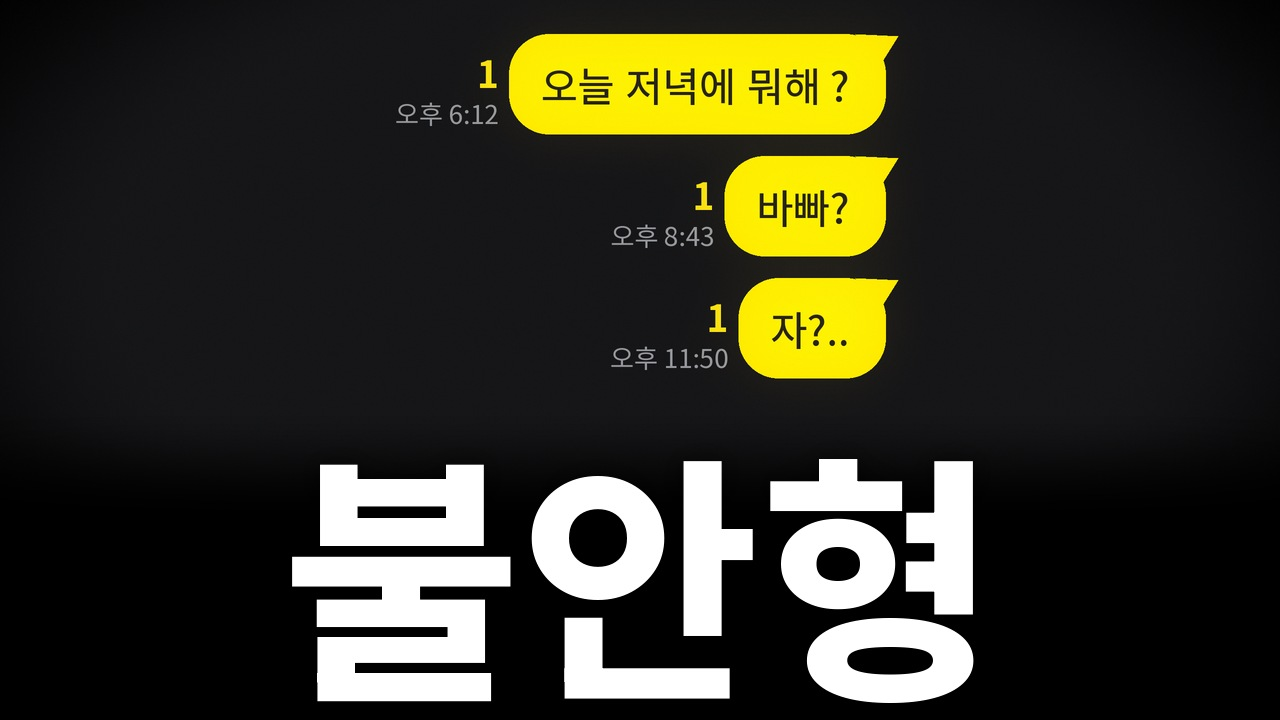
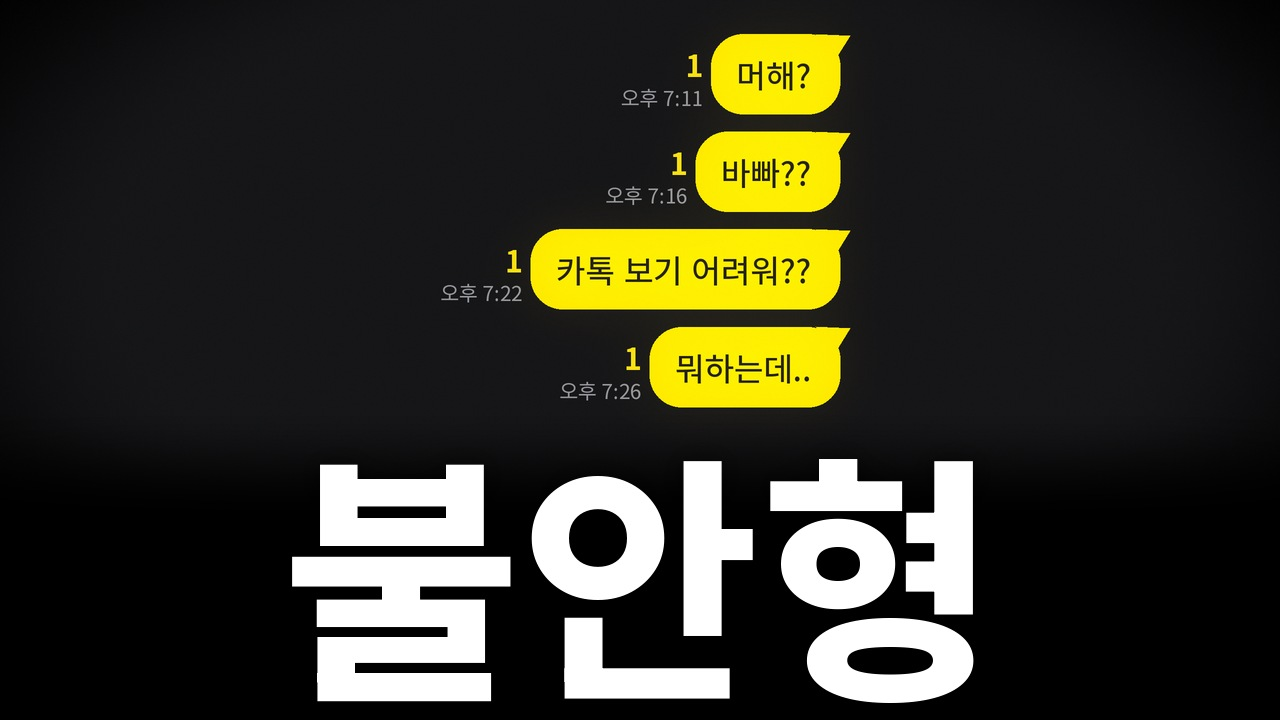
F의연애: 01편 썸네일 카톡을 4개로 (오후 7:11~7:26, 말풍선 높이 80px)
사용자 지시로 "머해?", "바빠??", "카톡 보기 어려워??", "뭐하는데.."를 보낸 문구 그대로 넣었다.
시각은 오전·오후가 적혀 있지 않아 저녁으로 보고 '오후'를 붙였다. 4개면 높이 100px 묶음이
글자와 겹쳐서 80px로 줄였다(묶음 y=34~406, 글자와 53px). thumb_chat.py에 --bubble을 더함
(옵션 없이 만들면 이전과 같은 파일). 메시지 3개 판은 초안/. 문서와 진행 기록(32) 갱신.

Claude-Session: https://claude.ai/code/session_01WkQmszpvh1Fi7ZmneSJvcx

Changed region(s): [[0.3125, 0.0306, 0.7188, 0.5806]]

diff --git a/F의연애/썸네일/thumb_chat.py b/F의연애/썸네일/thumb_chat.py
@@ -6,8 +6,9 @@
 # 말풍선은 기울이지 않고 똑바로 둔다. 아래에 주제 단어(thumb.py와 같은 글꼴·위치, 기본 흰색).
 #
 # usage: thumb_chat.py OUT.jpg [--theme dark|light] [--word 불안] [--color white|red]   (기본: dark, white)
-#                              [--msgs "a|b|c"] [--times "오후 6:12|오후 8:43|오후 11:50"] [--size 262]
+#                              [--msgs "a|b|c"] [--times "오후 6:12|오후 8:43|오후 11:50"] [--size 262] [--bubble 100]
 #   --size : 주제 단어 글자 크기(px, 기본 262). 01편 '불안형'은 259(2026-10-26 사용자: "3p만 줄이자").
+#   --bubble: 말풍선 높이(px, 기본 100). 메시지가 4개면 묶음이 글자와 50px 이상 떨어지도록 80(2026-10-26 01편).
 #   --times: 메시지마다 보낸 시각. 분이 다르면 카톡은 말풍선마다 꼬리를 새로 달고, 왼쪽에 '1'과 시간을 위아래로 둔다.
 #   light: 카톡 기본 테마(하늘색 배경) 화면 조각을 검은 배경 위에 둔다
 #   dark : 카톡 다크 테마처럼 검은 화면에 노란 말풍선만
@@ -133,7 +134,7 @@ if __name__ == "__main__":
         times = [None] * (len(msgs) - 1) + [opt("--time", "")]
     else:                                    # 01편: 저녁 6:12, 8:43, 밤 11:50에 하나씩 보냄(2026-10-22 사용자 지정)
         times = ["오후 6:12", "오후 8:43", "오후 11:50"]
-    img = (make_light if opt("--theme", "dark") == "light" else make_dark)(msgs, times)   # 기본 다크(2026-10-22 사용자 결정)
+    img = (make_light if opt("--theme", "dark") == "light" else make_dark)(msgs, times, int(opt("--bubble", 100)))   # 기본 다크(2026-10-22 사용자 결정)
     img = bottom_fade(img, 405, 520)
     put_word(img, opt("--word", "불안"), opt("--color", "white"), int(opt("--size", WORD_SIZE))).save(a[0], quality=93)
     print(a[0])

diff --git a/F의연애/CLAUDE.md b/F의연애/CLAUDE.md
@@ -1,7 +1,7 @@
 # 핸드오프 — 채널 1 「F의 연애」
 
 작성: 2026-10-20 (claude.ai 대화 내용을 정리)
-최종 수정: 2026-10-26 (사용자 지시로 01편 썸네일의 주제 단어를 '불안'에서 '불안형'으로, 카톡 메시지를 새 문구로, 글자 크기를 262px에서 259px로 바꾸고 다음 할 일 1번의 썸네일 줄을 갱신. 2026-10-25에는 사용자의 v7 수정 목록(1~12번)으로 01편 영상 v7을 만들고 파일 목록(영상/), 작업 규칙 15번, 영상 제작 5번(다시 보낸 사진, 사진 속 휴대폰 글자)·6번(녹음에서 줄을 뺄 때), 다음 할 일 1번을 갱신. 같은 날 앞서 1장 응답 규칙 11번(경과 보고를 대화창에 남기지 않음)을 더함. 같은 날 사용자가 새로 녹음한 1~8번으로 01편 영상 v6를 만들고 파일 목록(영상/), 영상 제작 6번(새 녹음을 받을 때), 다음 할 일 1번을 갱신. 같은 날 앞서 사용자의 v5 요청(새로 만든 AI 사진 29장)으로 01편 영상 v5를 만들고 파일 목록(영상/), 영상 제작 5번(새 사진 묶음), 다음 할 일 1번을 갱신. 같은 날 앞서 사용자의 v4 수정 목록(1~52번)으로 01편 영상 v4를 만들고 파일 목록(영상/), 작업 규칙 9번(노란 강조)·15번(새로 더함), 영상 제작 5번(사용자 사진을 다시 첨부할 때), 다음 할 일 1번을 갱신. 같은 날 앞서 사용자의 v3 요청으로 01편 영상 v3를 만들고 파일 목록(영상/), 작업 규칙 14번(배경음악), 영상 제작 5번(사용자 AI 사진), 다음 할 일 1번을 갱신. 2026-10-24 저녁에는 사용자의 v1 수정 목록으로 01편 영상 v2를 만들고 파일 목록(영상/), 작업 규칙 13번·14번, 영상 제작 5·6번, 다음 할 일 1번을 갱신. 오후에는 01편 본편 영상을 만들고 파일 목록(대본 v3, 영상/), 영상 제작 절(도구 위치, 로고·글자 처리), 다음 할 일 1번·7번을 갱신. 오전에는 영상 피드백 핸드오프 HANDOFF_FEEDBACK.md를 받아 파일 목록, 작업 규칙 13번, 3장 녹음 방식, 영상 제작 절, 다음 할 일을 갱신. 2026-10-23 오후에는 대본틀.md를 v2로 고침: 운영자 진단과 다듬기 기준 반영. 작업 규칙 12번을 더하고 파일 목록·다음 할 일 갱신. 같은 날 오전에는 4장 파일 목록·다음 할 일에 심리학 고양이 흐름 분석과 01편 대본 v2·녹음용 대본을 더하고, 작업 규칙 10번(끝인사 없음)과 11번(녹음용은 내레이션만)을 더함. 2026-10-22에는 4장 제작 방식·파일 목록·작업 규칙 5~9·영상 제작 절·다음 할 일 갱신, 2026-10-21에는 운영 방식을 정하고 주제 목록을 소재목록.md로 옮김)
+최종 수정: 2026-10-26 (사용자 지시로 01편 썸네일의 주제 단어를 '불안'에서 '불안형'으로, 카톡 메시지를 새 문구(마지막은 4개)로, 글자 크기를 262px에서 259px로 바꾸고 다음 할 일 1번의 썸네일 줄을 갱신. 2026-10-25에는 사용자의 v7 수정 목록(1~12번)으로 01편 영상 v7을 만들고 파일 목록(영상/), 작업 규칙 15번, 영상 제작 5번(다시 보낸 사진, 사진 속 휴대폰 글자)·6번(녹음에서 줄을 뺄 때), 다음 할 일 1번을 갱신. 같은 날 앞서 1장 응답 규칙 11번(경과 보고를 대화창에 남기지 않음)을 더함. 같은 날 사용자가 새로 녹음한 1~8번으로 01편 영상 v6를 만들고 파일 목록(영상/), 영상 제작 6번(새 녹음을 받을 때), 다음 할 일 1번을 갱신. 같은 날 앞서 사용자의 v5 요청(새로 만든 AI 사진 29장)으로 01편 영상 v5를 만들고 파일 목록(영상/), 영상 제작 5번(새 사진 묶음), 다음 할 일 1번을 갱신. 같은 날 앞서 사용자의 v4 수정 목록(1~52번)으로 01편 영상 v4를 만들고 파일 목록(영상/), 작업 규칙 9번(노란 강조)·15번(새로 더함), 영상 제작 5번(사용자 사진을 다시 첨부할 때), 다음 할 일 1번을 갱신. 같은 날 앞서 사용자의 v3 요청으로 01편 영상 v3를 만들고 파일 목록(영상/), 작업 규칙 14번(배경음악), 영상 제작 5번(사용자 AI 사진), 다음 할 일 1번을 갱신. 2026-10-24 저녁에는 사용자의 v1 수정 목록으로 01편 영상 v2를 만들고 파일 목록(영상/), 작업 규칙 13번·14번, 영상 제작 5·6번, 다음 할 일 1번을 갱신. 오후에는 01편 본편 영상을 만들고 파일 목록(대본 v3, 영상/), 영상 제작 절(도구 위치, 로고·글자 처리), 다음 할 일 1번·7번을 갱신. 오전에는 영상 피드백 핸드오프 HANDOFF_FEEDBACK.md를 받아 파일 목록, 작업 규칙 13번, 3장 녹음 방식, 영상 제작 절, 다음 할 일을 갱신. 2026-10-23 오후에는 대본틀.md를 v2로 고침: 운영자 진단과 다듬기 기준 반영. 작업 규칙 12번을 더하고 파일 목록·다음 할 일 갱신. 같은 날 오전에는 4장 파일 목록·다음 할 일에 심리학 고양이 흐름 분석과 01편 대본 v2·녹음용 대본을 더하고, 작업 규칙 10번(끝인사 없음)과 11번(녹음용은 내레이션만)을 더함. 2026-10-22에는 4장 제작 방식·파일 목록·작업 규칙 5~9·영상 제작 절·다음 할 일 갱신, 2026-10-21에는 운영 방식을 정하고 주제 목록을 소재목록.md로 옮김)
 
 이 문서 사용법
 - 이 채널 전용 Claude Code 프로젝트 폴더 최상단에 CLAUDE.md라는 이름으로 저장하면 세션마다 자동으로 읽힙니다. 첫 메시지로 붙여 넣어도 됩니다.
@@ -209,7 +209,7 @@
    - 정해진 것(2026-10-23): 흐름은 대본틀.md v2(6구간, 12단계 흐름 틀 대체), 장면으로 풀어 쓰는 실험은 6개까지, 끝인사 없음(작업 규칙 10번), ⑨ 거미 실험은 흰 선 아이콘으로만(진행기록 19번). 녹음은 수정 대본에서 뽑은 녹음용 텍스트로 한다.
    - 사용자가 최종 대본과 녹음 파일을 주면 스톡 혼합 방식으로 본편 영상(효과음 포함)을 만든다(아래 '영상 제작').
    - 정해진 것(2026-10-22): 제작 방식은 스톡 혼합, 하단 자막은 넣는다(스톡 혼합 규격).
-   - 썸네일: 틀을 정했다(썸네일/README.md). 검은 배경 + 가운데 핵심 물체(작게 봐도 보이게 크게, 사진처럼) + 아래 큰 주제 단어(본고딕 계열 Noto Sans KR 800, 글자 높이는 화면 높이의 1/3 이상). 참고 채널처럼 하되 너무 따라 하지 않는다(2026-10-22 사용자 지시). 01편은 휴대폰 없이 채팅 내용만 똑바로 확대한 판 + 흰 글씨 "불안형"(제목 색은 흰색이 기본, 2026-10-22 사용자 결정). 카톡 화면은 사용자가 보낸 갤럭시 화면에서 잰 비율과 가장 비슷한 무료 글꼴(Noto Sans KR 450)로 다시 그렸다. 사용자가 다크 테마를 골라 확정했다(2026-10-22). 결과: 썸네일/01_불안형_답장/썸네일.jpg. (2026-10-26) 사용자 지시로 주제 단어를 "불안형"으로("'불안' 말고 불안형 으로 적어줘"), 카톡 메시지를 "오늘 저녁에 뭐해 ?", "바빠?", "자?.."로 바꿨다(띄어쓰기와 문장부호는 보낸 그대로. 글꼴·크기·위치와 보낸 시각 오후 6:12·8:43·11:50은 그대로). 그 전 메시지는 대본 v2에 맞춘 것이라 v7 영상과 달랐다. 같은 날 사용자가 "불안형 글씨가 너무 크다.. 3p만 줄이자"라고 해서 글자 크기를 262px에서 259px로 줄였다('3p'를 3포인트로 해석, 약 1%라 눈으로는 차이가 거의 없어 10%·20% 줄인 비교 그림도 보냄). 글자 높이 240px 이상 기준은 256px까지 지켜진다. 이전 판은 같은 폴더 초안/(썸네일_불안.jpg, 썸네일_불안형_이전메시지.jpg, 썸네일_불안형_글씨262.jpg).
+   - 썸네일: 틀을 정했다(썸네일/README.md). 검은 배경 + 가운데 핵심 물체(작게 봐도 보이게 크게, 사진처럼) + 아래 큰 주제 단어(본고딕 계열 Noto Sans KR 800, 글자 높이는 화면 높이의 1/3 이상). 참고 채널처럼 하되 너무 따라 하지 않는다(2026-10-22 사용자 지시). 01편은 휴대폰 없이 채팅 내용만 똑바로 확대한 판 + 흰 글씨 "불안형"(제목 색은 흰색이 기본, 2026-10-22 사용자 결정). 카톡 화면은 사용자가 보낸 갤럭시 화면에서 잰 비율과 가장 비슷한 무료 글꼴(Noto Sans KR 450)로 다시 그렸다. 사용자가 다크 테마를 골라 확정했다(2026-10-22). 결과: 썸네일/01_불안형_답장/썸네일.jpg. (2026-10-26) 사용자 지시로 주제 단어를 "불안형"으로("'불안' 말고 불안형 으로 적어줘"), 카톡 메시지를 "오늘 저녁에 뭐해 ?", "바빠?", "자?.."로 바꿨다(띄어쓰기와 문장부호는 보낸 그대로. 글꼴·크기·위치와 보낸 시각 오후 6:12·8:43·11:50은 그대로). 그 전 메시지는 대본 v2에 맞춘 것이라 v7 영상과 달랐다. 같은 날 사용자가 "불안형 글씨가 너무 크다.. 3p만 줄이자"라고 해서 글자 크기를 262px에서 259px로 줄였다('3p'를 3포인트로 해석, 약 1%라 눈으로는 차이가 거의 없어 10%·20% 줄인 비교 그림도 보냄). 글자 높이 240px 이상 기준은 256px까지 지켜진다. 이어서 카톡을 4개로 바꿨다(오후 7:11 "머해?", 7:16 "바빠??", 7:22 "카톡 보기 어려워??", 7:26 "뭐하는데..". 사용자가 "7시 11분"처럼 오전·오후 없이 적어서 저녁으로 보고 '오후'를 붙임). 말풍선이 4개라 높이를 100px에서 80px로 줄였다(thumb_chat.py --bubble 80). 이전 판은 같은 폴더 초안/(썸네일_불안.jpg, 썸네일_불안형_이전메시지.jpg, 썸네일_불안형_글씨262.jpg, 썸네일_불안형_메시지3개.jpg).
    - 결정 대기: 사례 구간 캐릭터(감자를 쓸지, 어떻게 만들지)
 2. 다음 편 소재는 사용자에게 먼저 묻는다.
 3. 핸들 확정: 유튜브 스튜디오와 인스타그램 앱에서 직접 입력해 확인(진행기록.md 참고).

diff --git a/F의연애/HANDOFF_썸네일_F의연애.md b/F의연애/HANDOFF_썸네일_F의연애.md
@@ -1,7 +1,7 @@
 # 핸드오프 — 「F의 연애」 썸네일
 
 작성: 2026-10-22 (Claude Code에서 한 썸네일 작업을 정리)
-갱신: 2026-10-26 (운영자 지시로 01편 주제 단어를 "불안"에서 "불안형"으로, 카톡 메시지를 "오늘 저녁에 뭐해 ?", "바빠?", "자?.."로, 글자 크기를 262px에서 259px로 바꿈. 1장 6번, 2장 13~15번, 3-1, 3-2, 6장, 7장, 부록 A·B)
+갱신: 2026-10-26 (운영자 지시로 01편 주제 단어를 "불안"에서 "불안형"으로, 글자 크기를 262px에서 259px로, 카톡 메시지를 두 번 바꿈(마지막은 오후 7:11~7:26에 보낸 4개). 1장 6번, 2장 13~16번, 3-1, 3-2, 3-3, 6장, 7장, 부록 A·B)
 이전 작업 도구: Claude Code. 문서 안의 'Claude'는 이전에 작업한 AI를 가리킵니다.
 
 이 문서 사용법
@@ -33,7 +33,7 @@
 4. 아래쪽 한 칸: 주제 단어 한 단어(2~3글자). 흰색, Noto Sans KR 굵기 800, 글자 높이는 화면 높이의 1/3(240px) 이상
 5. 참고 채널(검은 배경 위 사물 사진 + 흰 굵은 제목, 예: "호감의 역설", "북극곰 효과")처럼 하되 너무 따라 하지 않습니다. 우리 채널은 비유적인 사물 대신 내용을 직접 보여 주는 물체를 씁니다(01편은 카톡 대화).
 6. 01편 결과: 썸네일/01_불안형_답장/썸네일.jpg
-   - 다크 테마 카톡 화면에 나만 보낸 말풍선 3개("오늘 저녁에 뭐해 ?", "바빠?", "자?..", 2026-10-26 바꿈), 모두 읽지 않은 '1', 메시지마다 보낸 시각
+   - 다크 테마 카톡 화면에 나만 보낸 말풍선 4개("머해?", "바빠??", "카톡 보기 어려워??", "뭐하는데..", 2026-10-26 바꿈), 모두 읽지 않은 '1', 메시지마다 보낸 시각
    - 아래에 흰 글씨 "불안형"(2026-10-26 "불안"에서 바꿈, 글자 크기 259px)
 
 ---
@@ -60,6 +60,7 @@
 13. (2026-10-26) 지시: "불안" 말고 "불안형"으로 → 글꼴·크기(262px)·위치는 그대로 두고 단어만 바꿨습니다. 세 글자도 높이 247px, 너비 688px로 화면 안에 들어갑니다(좌우 여백 약 290px).
 14. (2026-10-26) 지시: 카톡을 "오늘 저녁에 뭐해 ?", "바빠?", "자?.."로 → 띄어쓰기와 문장부호까지 보낸 그대로 넣었습니다. 보낸 시각(오후 6:12, 8:43, 11:50)은 말이 없어 그대로 두었습니다. 그 전 메시지("오늘 하루 어땠어요?", "바빠요? ㅎㅎ", "자요..?")는 대본 v2에 맞춘 것이라, 운영자가 고쳐 쓴 최종 대본과 영상의 메시지와 달랐습니다.
 15. (2026-10-26) 지시: "불안형 글씨가 너무 크다.. 3p만 줄이자" → '3p'를 글자 크기 3포인트로 보고 262px에서 259px로 줄였습니다(72ppi 기준으로 1포인트 = 1px). 약 1% 작아져 눈으로는 차이가 거의 없어서, 262·259·236(10% 줄임)·210(20% 줄임)을 나란히 놓은 비교 그림도 보냈습니다. 높이 240px 이상 기준은 256px까지 지켜집니다.
+16. (2026-10-26) 지시: 카톡을 4개로. "7시 11분 : 머해?", "7시 16분 : 바빠??", "7시 22분 : 카톡 보기 어려워??", "7시 26분 : 뭐하는데.." → 문구는 보낸 그대로 넣고, 시각은 저녁으로 보고 '오후'를 붙였습니다(추론: 오전·오후가 적혀 있지 않음). 말풍선이 4개라 높이를 100px에서 80px로 줄였습니다(묶음 y=34~406, 글자와 53px).
 
 ---
 
@@ -67,7 +68,7 @@
 
 ### 3-1. 화면 배치
 1. 위 두 칸(y 0~480)에 물체, 아래 한 칸에 주제 단어를 둡니다.
-2. 01편 실측: 말풍선 묶음 y=34~377, 주제 단어 "불안형"(259px) y=459~702(높이 244px, 너비 681px), 둘 사이 82px. 262px일 때는 y=456~702(높이 247px, 너비 688px), 둘 사이 79px. 이전 "불안"은 y=459~700(높이 242px, 너비 465px), 둘 사이 82px
+2. 01편 실측: 말풍선 4개(높이 80px) 묶음 y=34~406, 주제 단어 "불안형"(259px) y=459~702(높이 244px, 너비 681px), 둘 사이 53px. 말풍선 3개(높이 100px)일 때 묶음은 y=34~377, 둘 사이 82px(262px 글자는 y=456~702, 높이 247px, 너비 688px). 이전 "불안"은 y=459~700(높이 242px, 너비 465px), 둘 사이 82px
 3. 물체 아래쪽은 y=405~520에서 검게 사라지게 해 글자 뒤를 비웁니다.
 4. 가장자리는 어두운 방처럼 검게 감쌉니다(가운데 밝고 가장자리 어두움). 아주 약한 노이즈만 넣습니다.
 
@@ -93,7 +94,7 @@
    - 같은 분에 보낸 메시지는 한 묶음입니다. 시간은 마지막 말풍선에만 붙습니다.
    - 분이 다르면 새 묶음입니다. 말풍선마다 꼬리가 새로 생기고 '1'과 시간이 위아래로 붙습니다.
    - 꼬리는 묶음의 첫 말풍선 오른쪽 위에 붙습니다.
-8. 01편 배치: 말풍선 높이 100px, 위 끝 y=34. 시간까지 포함한 묶음 전체를 가로 가운데에 둡니다.
+8. 01편 배치: 말풍선 높이 80px(메시지 4개, 2026-10-26. 3개일 때는 100px), 위 끝 y=34. 시간까지 포함한 묶음 전체를 가로 가운데에 둡니다. 메시지가 늘면 묶음이 글자와 50px 이상 떨어지도록 thumb_chat.py --bubble로 줄입니다.
 9. 글꼴: Noto Sans KR 굵기 450
 10. 노란 말풍선 주변에만 약한 빛 번짐을 넣습니다(어두운 방의 화면 느낌).
 
@@ -133,7 +134,7 @@
 
 1. 준비: python3, pillow, numpy. 글꼴 폴더에 NotoSansKR-VF.ttf를 둡니다. 위치는 FONT_DIR 환경 변수로 정하거나, 스크립트 옆 fonts/ 폴더를 씁니다.
 2. 다크 카톡판(01편 방식)
-   - `python3 thumb_chat.py out.jpg --word 불안형 --msgs "오늘 저녁에 뭐해 ?|바빠?|자?.." --times "오후 6:12|오후 8:43|오후 11:50" --size 259`
+   - `python3 thumb_chat.py out.jpg --word 불안형 --msgs "머해?|바빠??|카톡 보기 어려워??|뭐하는데.." --times "오후 7:11|오후 7:16|오후 7:22|오후 7:26" --size 259 --bubble 80`
    - `--theme light`: 카톡 기본 하늘색 화면 조각판
    - `--color red`: 빨간 글씨
    - `--time "오후 11:52"`: 마지막 메시지에만 시간
@@ -149,7 +150,7 @@
 ## 7. 01편 결과와 초안
 
 1. 최종: 썸네일/01_불안형_답장/썸네일.jpg
-   - 말풍선: "오늘 저녁에 뭐해 ?"(오후 6:12), "바빠?"(오후 8:43), "자?.."(오후 11:50). 모두 읽지 않은 '1'(2026-10-26 바꿈)
+   - 말풍선 4개(높이 80px): "머해?"(오후 7:11), "바빠??"(오후 7:16), "카톡 보기 어려워??"(오후 7:22), "뭐하는데.."(오후 7:26). 모두 읽지 않은 '1'(2026-10-26 바꿈)
    - 주제 단어: 흰색 "불안형"(2026-10-26 "불안"에서 바꿈), 글자 크기 259px(2026-10-26 262px에서 줄임)
 2. 초안/에 남긴 것
    - A·B·C: 첫 시안(휴대폰 + 흰 글씨, 휴대폰 + 빨간 글씨, 손 사진 + 빨간 글씨), 글꼴 Pretendard Black
@@ -158,7 +159,8 @@
    - 갤럭시 라이트: 카톡 기본 하늘색 화면 조각판
    - 썸네일_불안: 2026-10-22 확정본(주제 단어 "불안")
    - 썸네일_불안형_이전메시지: 2026-10-26 주제 단어만 "불안형"으로 바꾼 판(메시지는 이전 것)
-   - 썸네일_불안형_글씨262: 2026-10-26 새 메시지에 글자 크기 262px인 판
+   - 썸네일_불안형_글씨262: 2026-10-26 메시지 3개("오늘 저녁에 뭐해 ?", "바빠?", "자?..")에 글자 크기 262px인 판
+   - 썸네일_불안형_메시지3개: 2026-10-26 같은 메시지 3개에 글자 크기 259px인 판
 
 ---
 
@@ -362,8 +364,9 @@ if __name__ == "__main__":
 # 말풍선은 기울이지 않고 똑바로 둔다. 아래에 주제 단어(thumb.py와 같은 글꼴·위치, 기본 흰색).
 #
 # usage: thumb_chat.py OUT.jpg [--theme dark|light] [--word 불안] [--color white|red]   (기본: dark, white)
-#                              [--msgs "a|b|c"] [--times "오후 6:12|오후 8:43|오후 11:50"] [--size 262]
+#                              [--msgs "a|b|c"] [--times "오후 6:12|오후 8:43|오후 11:50"] [--size 262] [--bubble 100]
 #   --size : 주제 단어 글자 크기(px, 기본 262). 01편 '불안형'은 259(2026-10-26 사용자: "3p만 줄이자").
+#   --bubble: 말풍선 높이(px, 기본 100). 메시지가 4개면 묶음이 글자와 50px 이상 떨어지도록 80(2026-10-26 01편).
 #   --times: 메시지마다 보낸 시각. 분이 다르면 카톡은 말풍선마다 꼬리를 새로 달고, 왼쪽에 '1'과 시간을 위아래로 둔다.
 #   light: 카톡 기본 테마(하늘색 배경) 화면 조각을 검은 배경 위에 둔다
 #   dark : 카톡 다크 테마처럼 검은 화면에 노란 말풍선만
@@ -489,7 +492,7 @@ if __name__ == "__main__":
         times = [None] * (len(msgs) - 1) + [opt("--time", "")]
     else:                                    # 01편: 저녁 6:12, 8:43, 밤 11:50에 하나씩 보냄(2026-10-22 사용자 지정)
         times = ["오후 6:12", "오후 8:43", "오후 11:50"]
-    img = (make_light if opt("--theme", "dark") == "light" else make_dark)(msgs, times)   # 기본 다크(2026-10-22 사용자 결정)
+    img = (make_light if opt("--theme", "dark") == "light" else make_dark)(msgs, times, int(opt("--bubble", 100)))   # 기본 다크(2026-10-22 사용자 결정)
     img = bottom_fade(img, 405, 520)
     put_word(img, opt("--word", "불안"), opt("--color", "white"), int(opt("--size", WORD_SIZE))).save(a[0], quality=93)
     print(a[0])

diff --git a/F의연애/썸네일/README.md b/F의연애/썸네일/README.md
@@ -16,6 +16,7 @@
 11. 사용자 지시(2026-10-26): 주제 단어를 "불안" 말고 "불안형"으로. 글꼴·크기(262px)·위치는 그대로 두고 단어만 바꿨다(글자 높이 247px, 너비 688px). "불안" 판은 01_불안형_답장/초안/썸네일_불안.jpg로 옮겼다.
 12. 사용자 지시(2026-10-26): 카톡 메시지를 "오늘 저녁에 뭐해 ?", "바빠?", "자?.."로. 띄어쓰기와 문장부호는 보낸 그대로 넣었다. 보낸 시각(오후 6:12, 8:43, 11:50)은 말이 없어 그대로 두었다. 이전 메시지 판은 01_불안형_답장/초안/썸네일_불안형_이전메시지.jpg.
 13. 사용자 지시(2026-10-26): "불안형 글씨가 너무 크다.. 3p만 줄이자". '3p'를 글자 크기 3포인트로 보고 262px → 259px로 줄였다(72ppi 기준으로 1포인트 = 1px). 글자 높이 247 → 244px, 너비 688 → 681px로 약 1% 작아져 눈으로는 차이가 거의 없다. 글자 높이 240px 이상(9번) 기준은 256px까지 지켜진다. 틀의 기본 크기(262px)는 그대로 두고 thumb_chat.py에 --size를 더했다. 262px 판은 01_불안형_답장/초안/썸네일_불안형_글씨262.jpg.
+14. 사용자 지시(2026-10-26): 카톡을 4개로. 오후 7:11 "머해?", 7:16 "바빠??", 7:22 "카톡 보기 어려워??", 7:26 "뭐하는데..". 문구는 보낸 그대로 넣고, 시각은 오전·오후가 적혀 있지 않아 저녁으로 보고 '오후'를 붙였다(추론). 말풍선 높이 100px 그대로면 4개 묶음이 y=500까지 내려와 글자와 겹쳐서 80px로 줄였다(묶음 y=34~406, 글자와 53px). thumb_chat.py에 --bubble을 더했다. 메시지 3개 판(259px)은 01_불안형_답장/초안/썸네일_불안형_메시지3개.jpg.
 
 ---
 
@@ -23,7 +24,7 @@
 
 1. 크기: 1280×720, JPG. 「INFJ입니다.」 지침 7-1과 같은 크기입니다.
 2. 배경: 순검정
-3. 물체: 가운데 위쪽에 둡니다. 작게 봐도 알아보도록 핵심만 크게 씁니다(01편은 말풍선 높이 100px, 위 끝 y=34, 아래 끝 y=377). 아래쪽은 y=405~520에서 검게 사라져 글자 뒤를 비웁니다. 물체는 위 두 칸, 주제 단어는 아래 한 칸을 차지합니다.
+3. 물체: 가운데 위쪽에 둡니다. 작게 봐도 알아보도록 핵심만 크게 씁니다(01편은 말풍선 4개, 높이 80px, 위 끝 y=34, 아래 끝 y=406. 말풍선이 3개일 때는 높이 100px, 아래 끝 y=377). 아래쪽은 y=405~520에서 검게 사라져 글자 뒤를 비웁니다. 물체는 위 두 칸, 주제 단어는 아래 한 칸을 차지합니다.
    - 화면처럼 보이게 하는 처리(thumb_chat.py 다크): 말풍선 빛 번짐, 가장자리를 검게 감싸는 조명, 아주 약한 노이즈
    - 물체는 기울이지 않고 똑바로 세운다(2026-10-22 사용자 지시: 원근을 넣었더니 삐뚤어 보인다고 함)
    - 화면 끝에서 잘리는 글씨를 두지 않는다. 그래서 채팅 위쪽의 상대 이름 줄은 뺐다(채널 작업 규칙 5번)
@@ -56,8 +57,8 @@
 
 ## 3. 01편 (01_불안형_답장/)
 
-1. 썸네일.jpg(최종, 2026-10-22 확정, 2026-10-26 주제 단어·메시지·글자 크기를 바꿈): 다크 테마 카톡 화면 + 흰 글씨 "불안형"(259px). 나만 보낸 말풍선 3개와 보낸 시각("오늘 저녁에 뭐해 ?" 오후 6:12, "바빠?" 오후 8:43, "자?.." 오후 11:50), 모두 읽지 않은 '1'
-2. 초안/: 첫 시안 A·B·C(Pretendard Black), B2(휴대폰 + 본고딕 글씨, 빨간·흰), 채팅 확대판 빨간 글씨, 채팅 확대판 흰 글씨(이전 글꼴 Pretendard SemiBold), 갤럭시 라이트(하늘색 기본 테마), 썸네일_불안(2026-10-22 확정본, 주제 단어 "불안"), 썸네일_불안형_이전메시지(2026-10-26, 주제 단어만 바꾸고 메시지는 이전 것), 썸네일_불안형_글씨262(2026-10-26, 새 메시지에 글자 크기 262px)
+1. 썸네일.jpg(최종, 2026-10-22 확정, 2026-10-26 주제 단어·메시지·글자 크기를 바꿈): 다크 테마 카톡 화면 + 흰 글씨 "불안형"(259px). 나만 보낸 말풍선 4개(높이 80px)와 보낸 시각("머해?" 오후 7:11, "바빠??" 오후 7:16, "카톡 보기 어려워??" 오후 7:22, "뭐하는데.." 오후 7:26), 모두 읽지 않은 '1'
+2. 초안/: 첫 시안 A·B·C(Pretendard Black), B2(휴대폰 + 본고딕 글씨, 빨간·흰), 채팅 확대판 빨간 글씨, 채팅 확대판 흰 글씨(이전 글꼴 Pretendard SemiBold), 갤럭시 라이트(하늘색 기본 테마), 썸네일_불안(2026-10-22 확정본, 주제 단어 "불안"), 썸네일_불안형_이전메시지(2026-10-26, 주제 단어만 바꾸고 메시지는 이전 것), 썸네일_불안형_글씨262(2026-10-26, 메시지 3개에 글자 크기 262px), 썸네일_불안형_메시지3개(2026-10-26, 259px, "오늘 저녁에 뭐해 ?" 등 메시지 3개)
 
 ---
 
@@ -67,7 +68,7 @@
    - 주제 단어: Noto Sans KR 가변 글꼴(OFL)을 NotoSansKR-VF.ttf라는 이름으로 저장합니다. https://raw.githubusercontent.com/google/fonts/main/ofl/notosanskr/NotoSansKR%5Bwght%5D.ttf
    - 휴대폰 화면 글자: Pretendard Bold·SemiBold(OFL). https://cdn.jsdelivr.net/npm/pretendard@1.3.9/dist/public/static/Pretendard-Bold.otf (SemiBold도 같은 형식)
 2. 채팅 확대판(01편 결정안)
-   - `python3 thumb_chat.py out.jpg --word 불안형 --msgs "오늘 저녁에 뭐해 ?|바빠?|자?.." --times "오후 6:12|오후 8:43|오후 11:50" --size 259` (기본: 다크 테마, 흰 글씨, 글자 크기 262. 라이트는 --theme light. 마지막 메시지에만 시간을 두려면 --time)
+   - `python3 thumb_chat.py out.jpg --word 불안형 --msgs "머해?|바빠??|카톡 보기 어려워??|뭐하는데.." --times "오후 7:11|오후 7:16|오후 7:22|오후 7:26" --size 259 --bubble 80` (기본: 다크 테마, 흰 글씨, 글자 크기 262, 말풍선 높이 100. 라이트는 --theme light. 마지막 메시지에만 시간을 두려면 --time)
 3. 휴대폰 물체(초안 방식)
    - `python3 thumb.py phone out.jpg --word 불안 --color white --msgs "오늘 하루 어땠어요?|바빠요? ㅎㅎ|자요..?" --name "그 사람"`
 4. 사진 물체

diff --git a/F의연애/HANDOFF_F의연애.md b/F의연애/HANDOFF_F의연애.md
@@ -10,7 +10,7 @@
 2026-10-25 (v5): 사용자의 v5 요청(새로 만든 AI 사진 29장을 대본에 표시한 30곳에, 워터마크 지우기, 27번 사진은 흐리게 + 가운데 자막)을 반영한 01편 영상 v5를 만들었습니다(11분 50.1초). 기록은 영상/01_불안형_답장/credits_v5.md, 바뀐 규칙은 CLAUDE.md 영상 제작 5번(새 사진 묶음)입니다.
 2026-10-25 (v6): 사용자가 새로 녹음한 1~8번으로 01편 영상의 녹음을 바꾼 v6를 만들었습니다(11분 51.6초). 기록은 영상/01_불안형_답장/credits_v6.md, 바뀐 규칙은 CLAUDE.md 영상 제작 6번(새 녹음을 받을 때)입니다.
 2026-10-25 (v7): 사용자의 v7 수정 목록(1~12번)을 반영한 01편 영상 v7을 만들었습니다(11분 43.7초). 기록은 영상/01_불안형_답장/credits_v7.md, 바뀐 규칙은 CLAUDE.md 작업 규칙 15번과 영상 제작 5·6번입니다.
-2026-10-26: 운영자 지시로 01편 썸네일의 주제 단어를 "불안"에서 "불안형"으로, 카톡 메시지를 "오늘 저녁에 뭐해 ?", "바빠?", "자?.."로, 글자 크기를 262px에서 259px로 바꿨습니다(썸네일/01_불안형_답장/썸네일.jpg, 이전 판은 같은 폴더 초안/). 썸네일 핸드오프에도 반영했습니다.
+2026-10-26: 운영자 지시로 01편 썸네일의 주제 단어를 "불안"에서 "불안형"으로, 글자 크기를 262px에서 259px로, 카톡 메시지를 오후 7:11~7:26에 보낸 4개("머해?", "바빠??", "카톡 보기 어려워??", "뭐하는데..")로 바꿨습니다(썸네일/01_불안형_답장/썸네일.jpg, 이전 판은 같은 폴더 초안/). 썸네일 핸드오프에도 반영했습니다.
 이전 작업 도구: Claude Code. 문서 안의 'Claude'는 이전에 작업한 AI를 가리킵니다.
 
 이 문서 사용법

diff --git a/F의연애/진행기록.md b/F의연애/진행기록.md
@@ -4,6 +4,11 @@
 
 ---
 
+## 2026-10-26 (32) 01편 썸네일 카톡 4개로
+
+1. 사용자: "바꾸자. 카톡을 이렇게 바꿔줘 1. 7시 11분 : 머해? 2. 7시 16분 : 바빠?? 3. 7시 22분 : 카톡 보기 어려워?? 4. 7시 26분 : 뭐하는데.."
+2. 한 일: 말풍선 4개를 보낸 문구 그대로 넣음. 시각은 오전·오후가 적혀 있지 않아 저녁으로 보고 '오후'를 붙임(추론: 이전 썸네일과 영상의 메시지가 모두 저녁에 보낸 것). 말풍선 높이 100px 그대로면 4개 묶음이 y=34~500이 되어 글자(위 끝 y=459)와 겹쳐서 80px로 줄임(묶음 y=34~406, 글자와 53px, 권장 50px 이상). 74px이면 3개일 때와 같은 y=34~378에 들어가지만 글씨가 더 작아져 80px을 고름. thumb_chat.py에 --bubble을 더함(옵션 없이 만들면 이전 판과 파일이 똑같음을 md5로 확인). 주제 단어 크기는 259px 그대로('바꾸자'는 카톡을 바꾸자는 말로 보았음). 메시지 3개 판은 초안/썸네일_불안형_메시지3개.jpg.
+
 ## 2026-10-26 (31) 01편 썸네일 글자 크기 3 줄임
 
 1. 사용자: "불안형 글씨가 너무 크다.. 3p만 줄이자"
